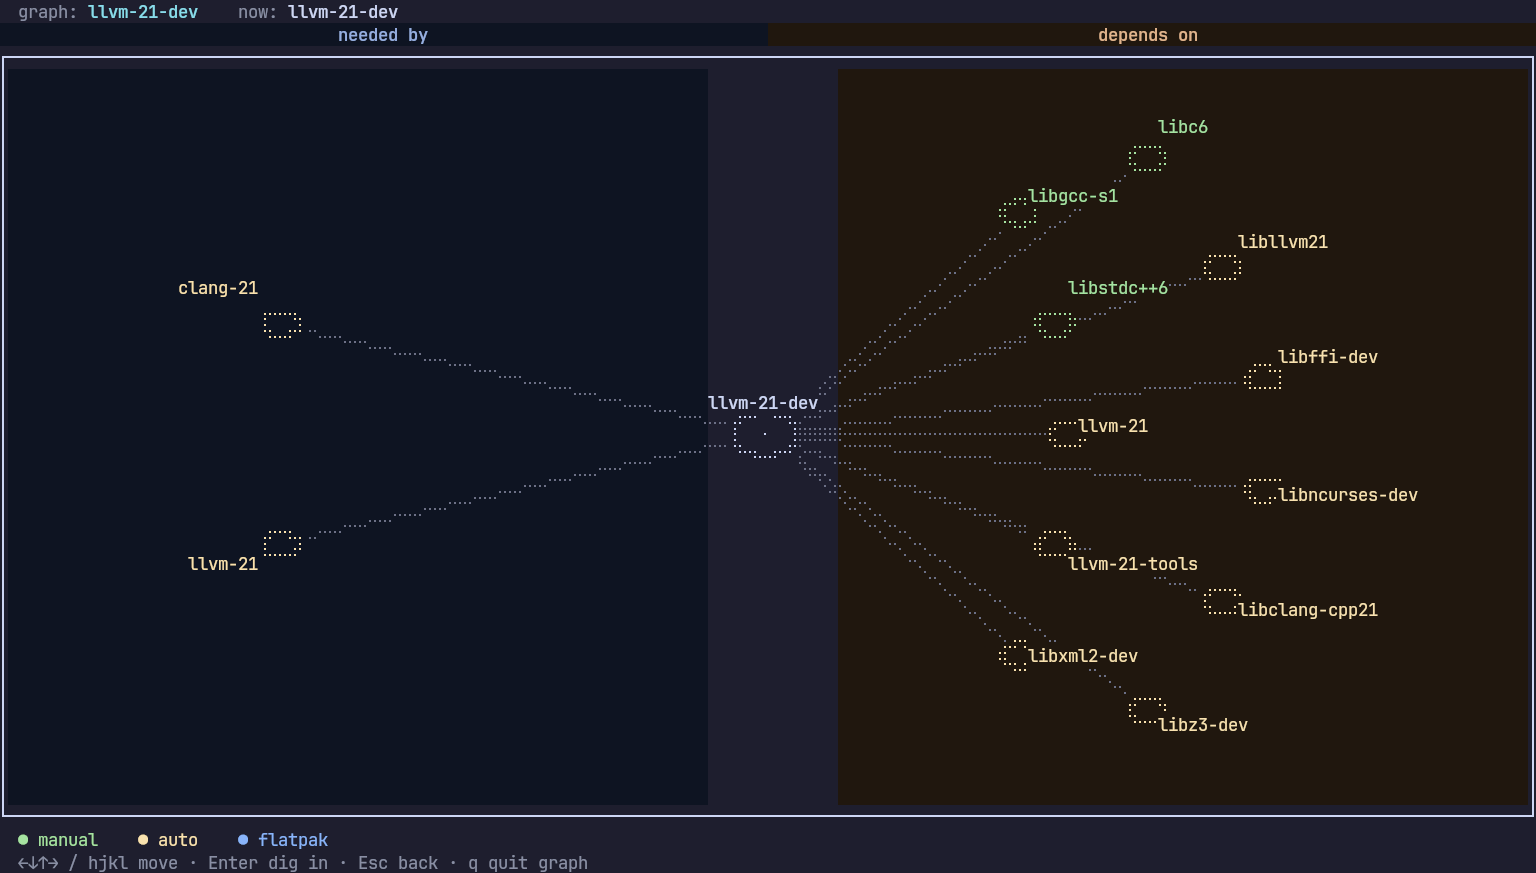
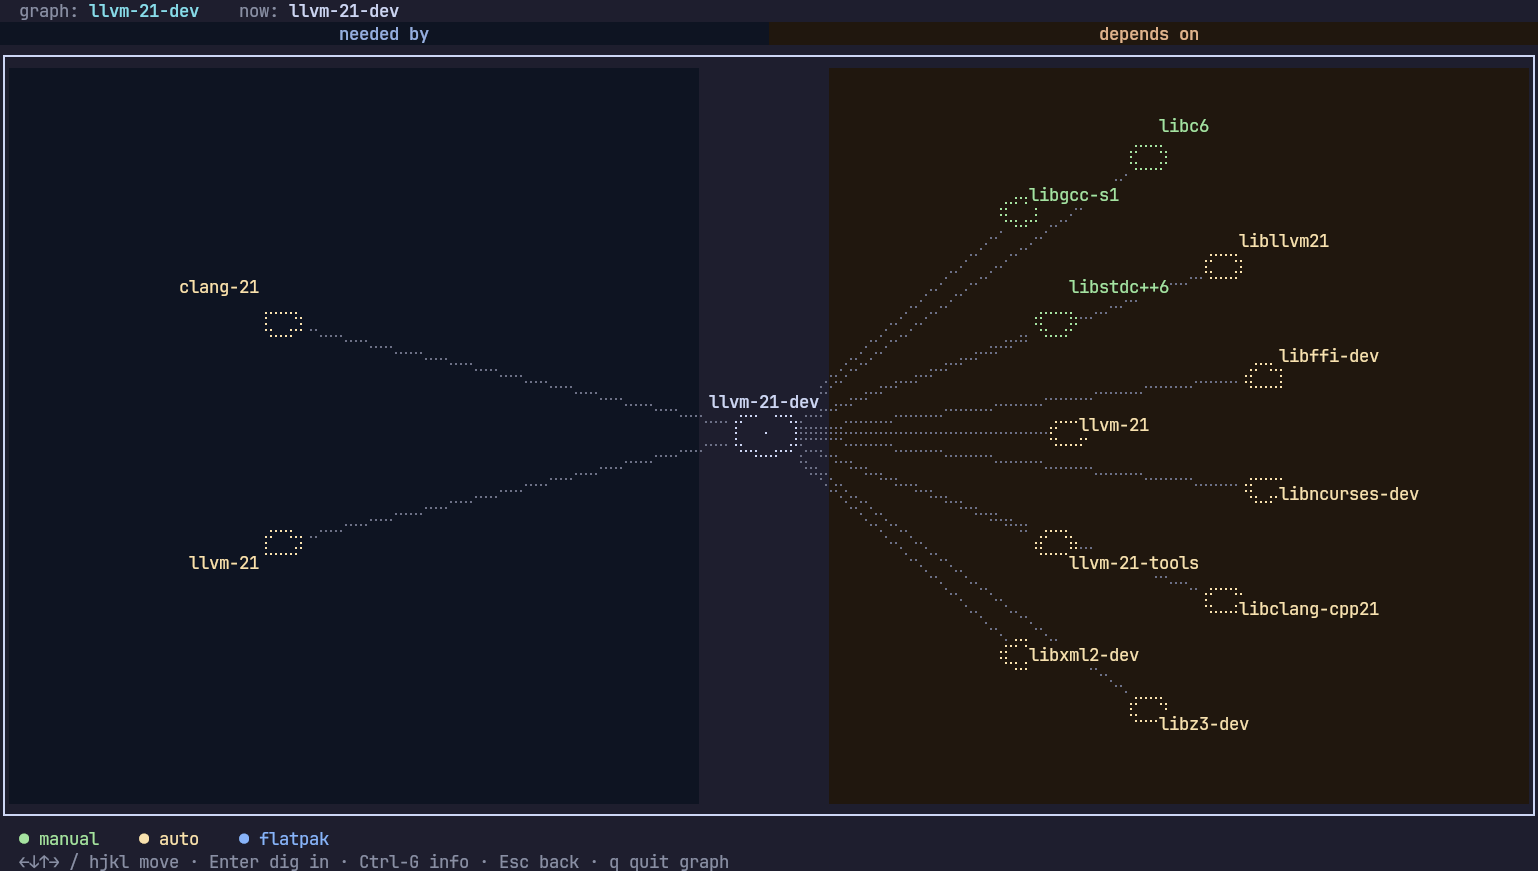
feat: page through graph neighbours, toggle graph and dossier with Ctrl-G

diff --git a/src/commands/graph.rs b/src/commands/graph.rs
@@ -37,14 +37,20 @@ struct Node {
 
 /// The graph view state: an ego graph laid out radially around `center`.
 pub struct GraphView {
+    /// The package in the middle, and its colour.
+    centre: (String, Color),
+    /// Every neighbour on each side, with its colour. Only a page of these is
+    /// laid out at a time; drawing them all would be an unreadable hairball.
+    all_needed: Vec<(String, Color)>,
+    all_deps: Vec<(String, Color)>,
+    /// Which page of each side is on screen.
+    page_left: usize,
+    page_right: usize,
     nodes: Vec<Node>,
     /// `(from, to)` indices into `nodes`.
     edges: Vec<(usize, usize)>,
     /// Index of the currently selected node.
     selected: usize,
-    /// Counts trimmed off each side (so we can tell the user "+N more").
-    hidden_needed: usize,
-    hidden_deps: usize,
     /// Centres visited before this one, so Esc can walk back out the way you
     /// dug in (Enter pushes, Esc pops).
     history: Vec<String>,
@@ -66,36 +72,81 @@ impl GraphView {
             }
         };
 
-        let needed: Vec<String> = dedup(world.rdeps_of(center));
-        let deps: Vec<String> = dedup(world.deps_of(center));
-        let hidden_needed = needed.len().saturating_sub(PER_SIDE);
-        let hidden_deps = deps.len().saturating_sub(PER_SIDE);
+        let with_colour = |names: Vec<String>| -> Vec<(String, Color)> {
+            names.into_iter().map(|n| { let c = color_of(&n); (n, c) }).collect()
+        };
+        let mut view = GraphView {
+            centre: (center.to_string(), color_of(center)),
+            all_needed: with_colour(dedup(world.rdeps_of(center))),
+            all_deps: with_colour(dedup(world.deps_of(center))),
+            page_left: 0,
+            page_right: 0,
+            nodes: Vec::new(),
+            edges: Vec::new(),
+            // Start on the centre - the package you're actually inspecting - so
+            // h/l steps out into either side from there.
+            selected: 0,
+            history: Vec::new(),
+        };
+        view.layout();
+        view
+    }
 
-        let mut nodes = vec![Node {
-            name: center.to_string(),
+    /// Lay out the current page of each side around the centre.
+    fn layout(&mut self) {
+        self.nodes = vec![Node {
+            name: self.centre.0.clone(),
             x: 0.0,
             y: 0.0,
-            color: color_of(center),
+            color: self.centre.1,
             center: true,
             side: Side::Center,
         }];
-        let mut edges = Vec::new();
+        self.edges = Vec::new();
+        let left = page_slice(&self.all_needed, self.page_left);
+        let right = page_slice(&self.all_deps, self.page_right);
+        place_side(left, Side::Left, &mut self.nodes, &mut self.edges);
+        place_side(right, Side::Right, &mut self.nodes, &mut self.edges);
+        self.selected = self.selected.min(self.nodes.len().saturating_sub(1));
+    }
 
-        // Left side (needed by) and right side (depends on), on a bowed arc.
-        place_side(&needed, PER_SIDE, Side::Left, &color_of, &mut nodes, &mut edges);
-        place_side(&deps, PER_SIDE, Side::Right, &color_of, &mut nodes, &mut edges);
-
-        // Start on the centre - the package you're actually inspecting - so
-        // h/l steps out into either side from there.
-        let selected = 0;
-        GraphView {
-            nodes,
-            edges,
-            selected,
-            hidden_needed,
-            hidden_deps,
-            history: Vec::new(),
+    /// All neighbours on a side, and which page we're on.
+    fn side_state(&self, side: Side) -> (&[(String, Color)], usize) {
+        match side {
+            Side::Left => (&self.all_needed, self.page_left),
+            Side::Right => (&self.all_deps, self.page_right),
+            Side::Center => (&[], 0),
         }
+    }
+
+    /// "17-32 of 64" for a side that spans more than one page, else `None` -
+    /// shown in the zone header so the count sits where you're already looking.
+    pub fn page_label(&self, needed_by: bool) -> Option<String> {
+        let side = if needed_by { Side::Left } else { Side::Right };
+        let (all, page) = self.side_state(side);
+        if all.len() <= PER_SIDE {
+            return None;
+        }
+        let start = page * PER_SIDE;
+        let end = (start + PER_SIDE).min(all.len());
+        Some(format!("{}-{} of {}", start + 1, end, all.len()))
+    }
+
+    /// Move to the next/previous page of a side, if there is one.
+    fn turn_page(&mut self, side: Side, dir: isize) -> bool {
+        let (all, page) = self.side_state(side);
+        let last_page = all.len().saturating_sub(1) / PER_SIDE;
+        let next = page as isize + dir;
+        if next < 0 || next > last_page as isize || all.len() <= PER_SIDE {
+            return false;
+        }
+        match side {
+            Side::Left => self.page_left = next as usize,
+            Side::Right => self.page_right = next as usize,
+            Side::Center => return false,
+        }
+        self.layout();
+        true
     }
 
     /// Node indices in one column, ordered top (higher y) to bottom.
@@ -113,13 +164,28 @@ impl GraphView {
     }
 
     /// Move up/down *within* the current column (`dir` -1 = up, +1 = down),
-    /// clamped so you never jump columns by accident.
+    /// never jumping columns. Running off the end of a column turns to the next
+    /// page of that side, so you can walk through every neighbour without ever
+    /// drawing them all at once.
     pub fn move_vertical(&mut self, dir: isize) {
-        let col = self.column(self.nodes[self.selected].side);
+        let side = self.nodes[self.selected].side;
+        let col = self.column(side);
         if col.is_empty() {
             return;
         }
         let pos = col.iter().position(|&i| i == self.selected).unwrap_or(0);
+        let at_end = (dir > 0 && pos + 1 == col.len()) || (dir < 0 && pos == 0);
+
+        if at_end {
+            if self.turn_page(side, dir) {
+                // Enter the new page from the edge you left the old one at.
+                let col = self.column(side);
+                if let Some(&idx) = if dir > 0 { col.first() } else { col.last() } {
+                    self.selected = idx;
+                }
+            }
+            return;
+        }
         let next = (pos as isize + dir).clamp(0, col.len() as isize - 1) as usize;
         self.selected = col[next];
     }
@@ -223,16 +289,39 @@ impl GraphView {
         let halves =
             Layout::horizontal([Constraint::Percentage(50), Constraint::Percentage(50)])
                 .split(chunks[1]);
-        f.render_widget(
-            Paragraph::new("needed by")
+        // The "17-32 of 64" counter rides in the header, where you're already
+        // looking, rather than being tucked away at the bottom of the screen.
+        let header = |label: &str, page: Option<String>, fg: Color, bg: Color| {
+            let mut spans = vec![Span::styled(
+                label.to_string(),
+                Style::new().fg(fg).bold().bg(bg),
+            )];
+            if let Some(p) = page {
+                spans.push(Span::styled(
+                    format!(" · {p}"),
+                    Style::new().fg(fg).dim().bg(bg),
+                ));
+            }
+            Paragraph::new(Line::from(spans))
                 .alignment(Alignment::Center)
-                .style(Style::new().fg(Color::Rgb(150, 175, 225)).bold().bg(left_bg)),
+                .style(Style::new().bg(bg))
+        };
+        f.render_widget(
+            header(
+                "needed by",
+                self.page_label(true),
+                Color::Rgb(150, 175, 225),
+                left_bg,
+            ),
             halves[0],
         );
         f.render_widget(
-            Paragraph::new("depends on")
-                .alignment(Alignment::Center)
-                .style(Style::new().fg(Color::Rgb(225, 180, 140)).bold().bg(right_bg)),
+            header(
+                "depends on",
+                self.page_label(false),
+                Color::Rgb(225, 180, 140),
+                right_bg,
+            ),
             halves[1],
         );
 
@@ -331,7 +420,12 @@ impl GraphView {
         // Tint the two zones, leaving a neutral lane down the middle for the
         // package itself (it's neither "needed by" nor "depends on"). Bg only,
         // after the canvas renders, so the braille graph stays visible on top.
-        let mid = ca.x + ca.width / 2;
+        // Pivot on the column the canvas actually draws x=0 into, not on the
+        // geometric middle: the braille grid spans `2*cells - 1` dots, so the
+        // midpoint floors one cell to the left and the lane would sit off by one.
+        let inner_w = ca.width.saturating_sub(2) as f64;
+        let centre_dot = (0.5 * (2.0 * inner_w - 1.0)).floor().max(0.0) as u16;
+        let mid = ca.x + 1 + centre_dot / 2;
         let band = ca.width / 24; // half-width of the neutral centre lane
         let buf = f.buffer_mut();
         for y in (ca.y + 1)..(ca.y + ca.height.saturating_sub(1)) {
@@ -363,14 +457,8 @@ impl GraphView {
         f.render_widget(Paragraph::new(legend), chunks[3]);
 
         // Controls, plus a note if some neighbours were trimmed.
-        let mut controls =
-            "  ←↓↑→ / hjkl move · Enter dig in · Esc back · q quit graph".to_string();
-        if self.hidden_needed > 0 || self.hidden_deps > 0 {
-            controls.push_str(&format!(
-                " · +{} needed, +{} deps hidden",
-                self.hidden_needed, self.hidden_deps
-            ));
-        }
+        let controls =
+            "  ←↓↑→ / hjkl move · Enter dig in · Ctrl-G info · Esc back · q quit graph";
         f.render_widget(
             Paragraph::new(Line::from(Span::styled(controls, Style::new().dim()))),
             chunks[4],
@@ -384,14 +472,12 @@ impl GraphView {
 /// centre, so their labels start at different x - which is what stops long
 /// names running into each other while keeping the radial bow.
 fn place_side(
-    names: &[String],
-    cap: usize,
+    names: &[(String, Color)],
     side: Side,
-    color_of: &dyn Fn(&str) -> Color,
     nodes: &mut Vec<Node>,
     edges: &mut Vec<(usize, usize)>,
 ) {
-    let shown = names.len().min(cap);
+    let shown = names.len();
     if shown == 0 {
         return;
     }
@@ -401,7 +487,7 @@ fn place_side(
     // Alternate between the outer orbit and an inner one at 60% the distance.
     let inner_radius = RADIUS * 0.6;
 
-    for (i, name) in names.iter().take(shown).enumerate() {
+    for (i, (name, colour)) in names.iter().enumerate() {
         let frac = (i as f64 + 1.0) / (shown as f64 + 1.0); // 0..1, excludes ends
         let y = y_top - 2.0 * y_top * frac; // evenly from +y_top down to -y_top
 
@@ -423,12 +509,19 @@ fn place_side(
             name: name.clone(),
             x,
             y,
-            color: color_of(name),
+            color: *colour,
             center: false,
             side,
         });
         edges.push((0, idx));
     }
+}
+
+/// The slice of one side's neighbours that page `page` shows.
+fn page_slice(all: &[(String, Color)], page: usize) -> &[(String, Color)] {
+    let start = (page * PER_SIDE).min(all.len());
+    let end = (start + PER_SIDE).min(all.len());
+    &all[start..end]
 }
 
 fn dedup(src: &[String]) -> Vec<String> {
@@ -539,14 +632,64 @@ mod tests {
         assert!(max_x < 72.0, "a planet is drawn off-canvas (x={max_x})");
     }
 
+    /// A world whose centre is needed by `n` packages.
+    fn crowded_world(n: usize) -> World {
+        let needed: Vec<String> = (0..n).map(|i| format!("n{i:02}")).collect();
+        let edges: Vec<(&str, &str)> = needed.iter().map(|x| (x.as_str(), "center")).collect();
+        World::from_edges(&edges, &["center"])
+    }
+
     #[test]
-    fn caps_each_side_and_reports_what_it_hid() {
-        let needed: Vec<String> = (0..30).map(|i| format!("n{i:02}")).collect();
-        let edges: Vec<(&str, &str)> = needed.iter().map(|n| (n.as_str(), "center")).collect();
-        let w = World::from_edges(&edges, &["center"]);
+    fn draws_only_one_page_per_side() {
+        let w = crowded_world(30);
         let g = GraphView::build(&w, "center");
-        assert_eq!(g.nodes.iter().filter(|n| n.side == Side::Left).count(), PER_SIDE);
-        assert_eq!(g.hidden_needed, 30 - PER_SIDE);
+        assert_eq!(
+            g.nodes.iter().filter(|n| n.side == Side::Left).count(),
+            PER_SIDE,
+            "a crowded side must never draw everything at once"
+        );
+        assert_eq!(g.page_label(true).as_deref(), Some("1-16 of 30"));
+        assert_eq!(g.page_label(false), None, "no counter when it all fits");
+    }
+
+    #[test]
+    fn running_off_a_column_turns_the_page() {
+        let w = crowded_world(30);
+        let mut g = GraphView::build(&w, "center");
+        g.move_horizontal(-1); // into the crowded side
+        let first = g.selected_name().to_string();
+
+        // Walk to the bottom of page one, then one more step pages over.
+        for _ in 0..PER_SIDE {
+            g.move_vertical(1);
+        }
+        assert_eq!(g.page_label(true).as_deref(), Some("17-30 of 30"));
+        assert_ne!(g.selected_name(), first);
+        assert_eq!(g.nodes.iter().filter(|n| n.side == Side::Left).count(), 30 - PER_SIDE);
+
+        // The last page is the end of the line; it does not wrap.
+        for _ in 0..40 {
+            g.move_vertical(1);
+        }
+        assert_eq!(g.page_label(true).as_deref(), Some("17-30 of 30"));
+
+        // Walking back up returns to page one, at the top of the column.
+        for _ in 0..40 {
+            g.move_vertical(-1);
+        }
+        assert_eq!(g.page_label(true).as_deref(), Some("1-16 of 30"));
+        assert_eq!(g.selected_name(), "n00");
+    }
+
+    #[test]
+    fn paging_keeps_you_on_your_side() {
+        let w = crowded_world(30);
+        let mut g = GraphView::build(&w, "center");
+        g.move_horizontal(-1);
+        for _ in 0..60 {
+            g.move_vertical(1);
+            assert_eq!(side_of(&g, g.selected_name()), Side::Left);
+        }
     }
 
     // ── navigation ──────────────────────────────────────────────────────────

diff --git a/src/commands/browse.rs b/src/commands/browse.rs
@@ -227,6 +227,11 @@ impl App {
                     || (key.modifiers.contains(KeyModifiers::CONTROL)
                         && matches!(key.code, KeyCode::Char('[')));
 
+                // Ctrl+G flips back to the dossier - for whatever package you
+                // navigated to in the graph, not the one you came in on.
+                let to_dossier = key.modifiers.contains(KeyModifiers::CONTROL)
+                    && matches!(key.code, KeyCode::Char('g'));
+
                 match key.code {
                     // Back out through the graph history; once there's nothing
                     // left to unwind, close the graph.
@@ -238,6 +243,17 @@ impl App {
                             .unwrap_or(false);
                         if !unwound {
                             self.graph = None;
+                        }
+                    }
+                    _ if to_dossier => {
+                        let target = self.graph.as_ref().map(|g| g.selected_name().to_string());
+                        self.graph = None;
+                        // If we dug somewhere new, open that package's dossier;
+                        // if we never moved, closing already lands us on it.
+                        if let Some(t) = target
+                            && self.frame().focus.as_deref() != Some(t.as_str())
+                        {
+                            self.open(t);
                         }
                     }
                     // q always leaves the graph outright.
